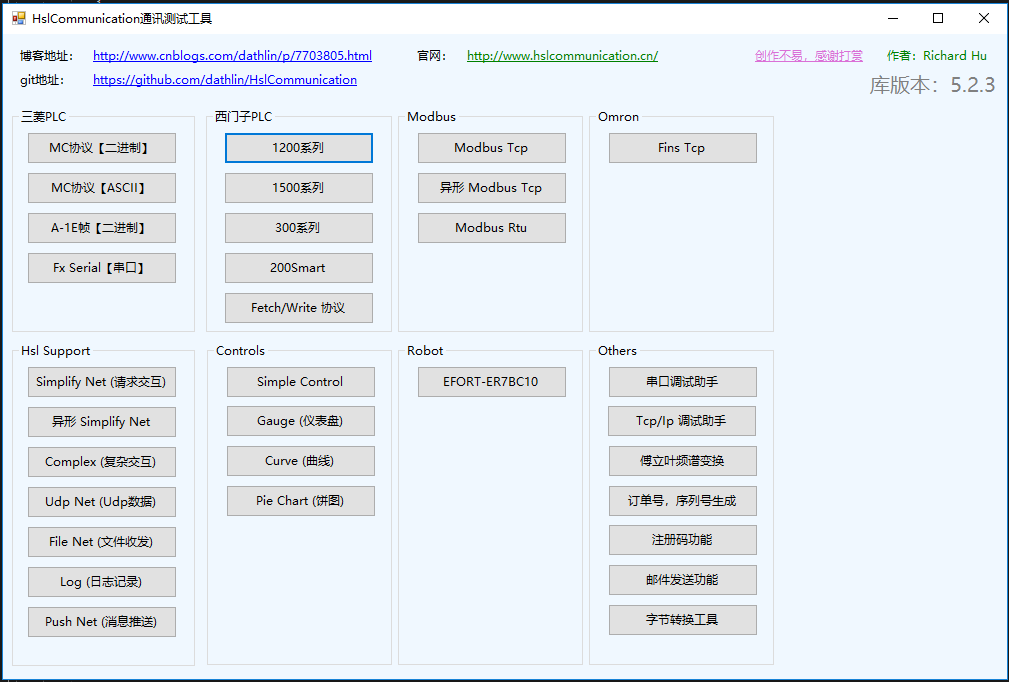
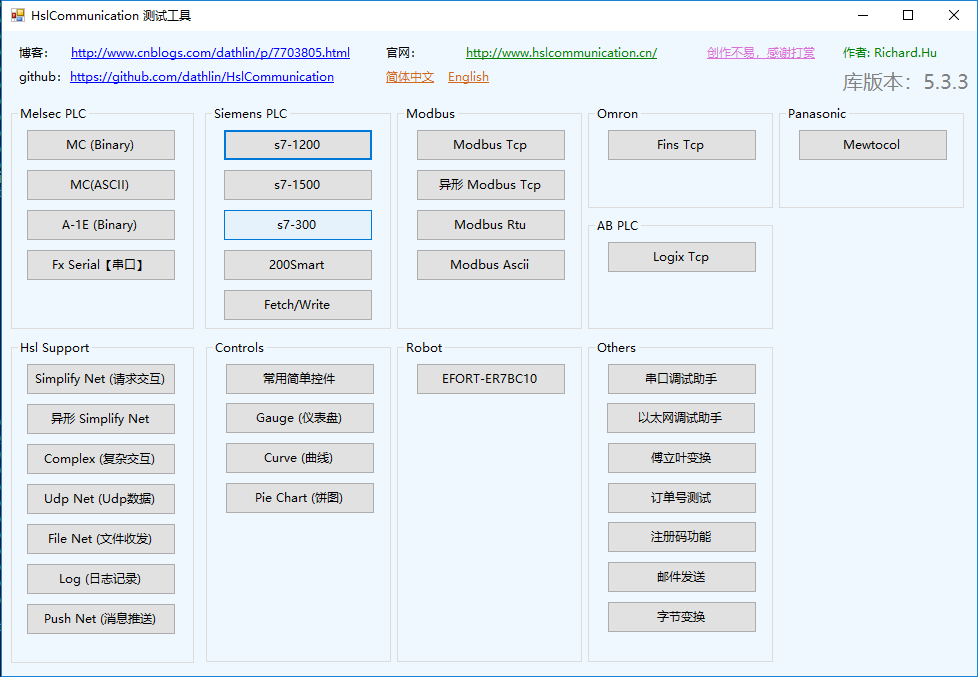
feat(home): 主页优化，更新图标，显示多平台支持。

Changed region(s): [[0.0, 0.0, 1.0, 1.0], [0.0, 0.4963, 0.184, 0.9306], [0.3988, 0.062, 0.6748, 0.1241]]

diff --git a/HslHomepage/Pages/Index.cshtml.cs b/HslHomepage/Pages/Index.cshtml.cs
@@ -9,8 +9,6 @@ namespace HslHomepage.Pages
 {
     public class IndexModel : PageModel
     {
-        public string X = "";
-        public string Y = "";
         public List<string> x_text = new List<string>( );
         public List<int> y_count = new List<int>( );
 
@@ -38,22 +36,7 @@ namespace HslHomepage.Pages
                         y_count.Add( BitConverter.ToUInt16( Data.StaticInfomation.Tmp, (startIndex + j - 29) * 2 ) );
                     }
                 }
-
-                for (int j = 0; j < 30; j++)
-                {
-                    if(j == 29)
-                    {
-                        X += "'" + x_text[j] + "'";
-                        Y += y_count[j].ToString( );
-                    }
-                    else
-                    {
-                        X += "'" + x_text[j] + "',";
-                        Y += y_count[j].ToString( ) + ",";
-                    }
-                }
-
-
+                
                 System.IO.File.WriteAllBytes( "Tmp.txt", Data.StaticInfomation.Tmp );
             }
 
